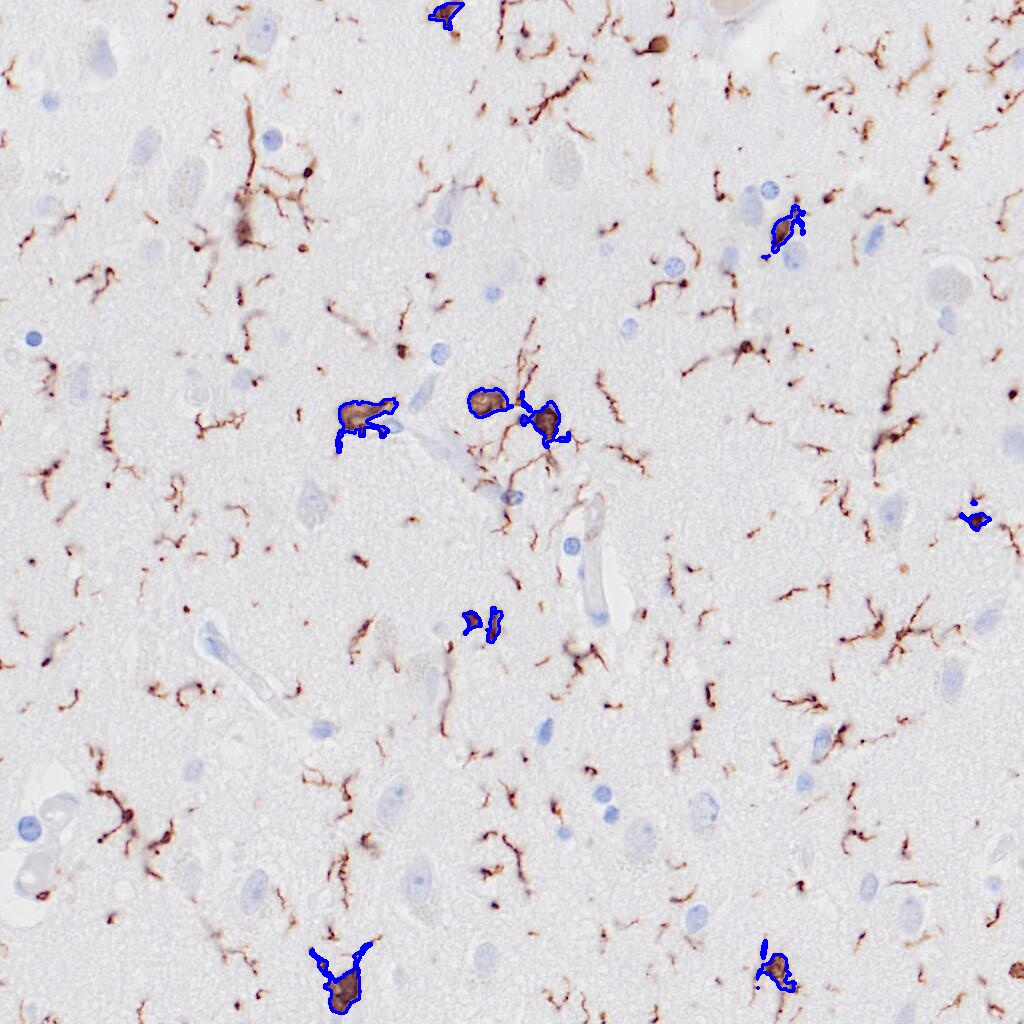
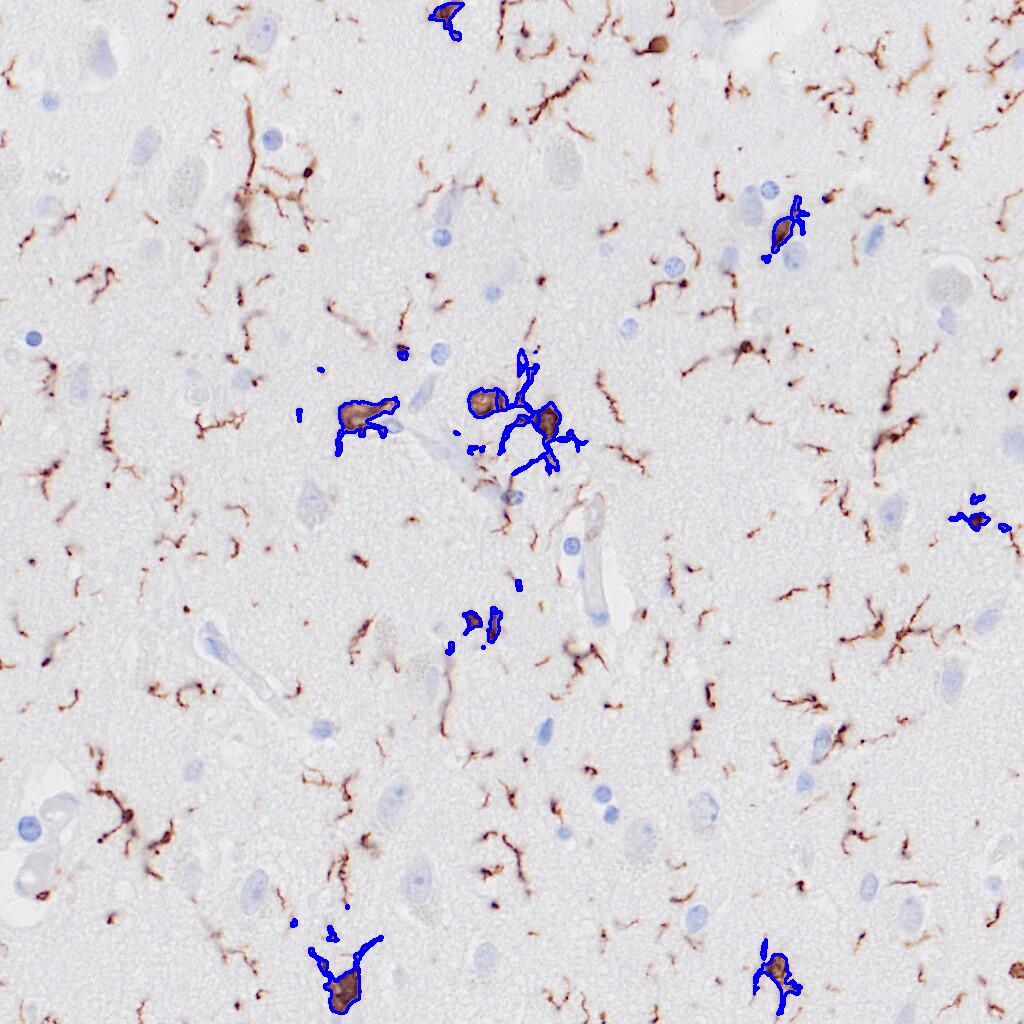
Working inference with yolo boxes twice as big

diff --git a/initial_pipeline/segmentation/custom_segmentation/segmentation_inference.py b/initial_pipeline/segmentation/custom_segmentation/segmentation_inference.py
@@ -6,6 +6,49 @@ import os
 from helpers import get_file_name, output_masks_to_file_overlay
 
 
+def scale_boxes_xyxy(boxes, scale, image_shape):
+    """
+    Scale boxes around their center.
+
+    Parameters
+    ----------
+    boxes : np.ndarray (N, 4)
+        Boxes in [x1, y1, x2, y2] format.
+
+    scale : float
+        Scale factor (e.g. 2.0 = double size).
+
+    image_shape : tuple
+        (H, W) of image.
+
+    Returns
+    -------
+    np.ndarray
+        Scaled boxes (N, 4), clipped to image bounds.
+    """
+    H, W = image_shape
+    boxes = boxes.astype(np.float32)
+
+    cx = (boxes[:, 0] + boxes[:, 2]) / 2.0
+    cy = (boxes[:, 1] + boxes[:, 3]) / 2.0
+    w  = (boxes[:, 2] - boxes[:, 0]) * scale
+    h  = (boxes[:, 3] - boxes[:, 1]) * scale
+
+    x1 = cx - w / 2
+    y1 = cy - h / 2
+    x2 = cx + w / 2
+    y2 = cy + h / 2
+
+    # Clip to image bounds
+    x1 = np.clip(x1, 0, W - 1)
+    y1 = np.clip(y1, 0, H - 1)
+    x2 = np.clip(x2, 0, W - 1)
+    y2 = np.clip(y2, 0, H - 1)
+
+    return np.stack([x1, y1, x2, y2], axis=1).astype(np.int32)
+
+
+
 @torch.no_grad()
 def unet_inference(
     model,
@@ -18,6 +61,8 @@ def unet_inference(
     output_to_file=False,
     output_name=None,
     output_folder="segmentation/segmentation_output/custom_segmentation/",
+    expand_boxes=False,
+    box_scale=2.0,
 ):
     """
     Run UNet inference per YOLO bounding box.
@@ -49,6 +94,13 @@ def unet_inference(
         image_rgb = np.array(Image.open(image_path).convert("RGB"))
 
     H, W = image_rgb.shape[:2]
+
+    if expand_boxes:
+        boxes = scale_boxes_xyxy(
+            boxes,
+            scale=box_scale,
+            image_shape=(H, W)
+        )
     masks = []
 
     for box in boxes:

diff --git a/initial_pipeline/main.py b/initial_pipeline/main.py
@@ -65,7 +65,9 @@ def main():
             # Pipeline steps
             yolo_boxes = yolo_inference(yolo, image_path, output_name = output_name,  output_to_file=False)
             # sam_masks = sam_inference(sam_predictor, yolo_boxes, image_path,  output_name = output_name, image_rgb = image_rgb, output_to_file=True)
-            segmentation_masks = unet_inference(model, yolo_boxes, image_path = image_path,  image_rgb=image_rgb, device = device, output_to_file = True, output_name = output_name)
+            segmentation_masks = unet_inference(model, yolo_boxes, image_path = image_path,  image_rgb=image_rgb, 
+                                                device = device, output_to_file = True, output_name = output_name, 
+                                                expand_boxes=True)
             soma_masks = get_gaussian_filter_soma_masks(yolo_boxes, image_path, image_rgb, output_name = output_name,  output_to_file= False)
             skeletons = get_skeletons(image_rgb, image_path, segmentation_masks, soma_masks, output_to_file = False, output_name = output_name)
             results_df = get_morphology_dataframe(segmentation_masks, skeletons, soma_masks, yolo_boxes)
